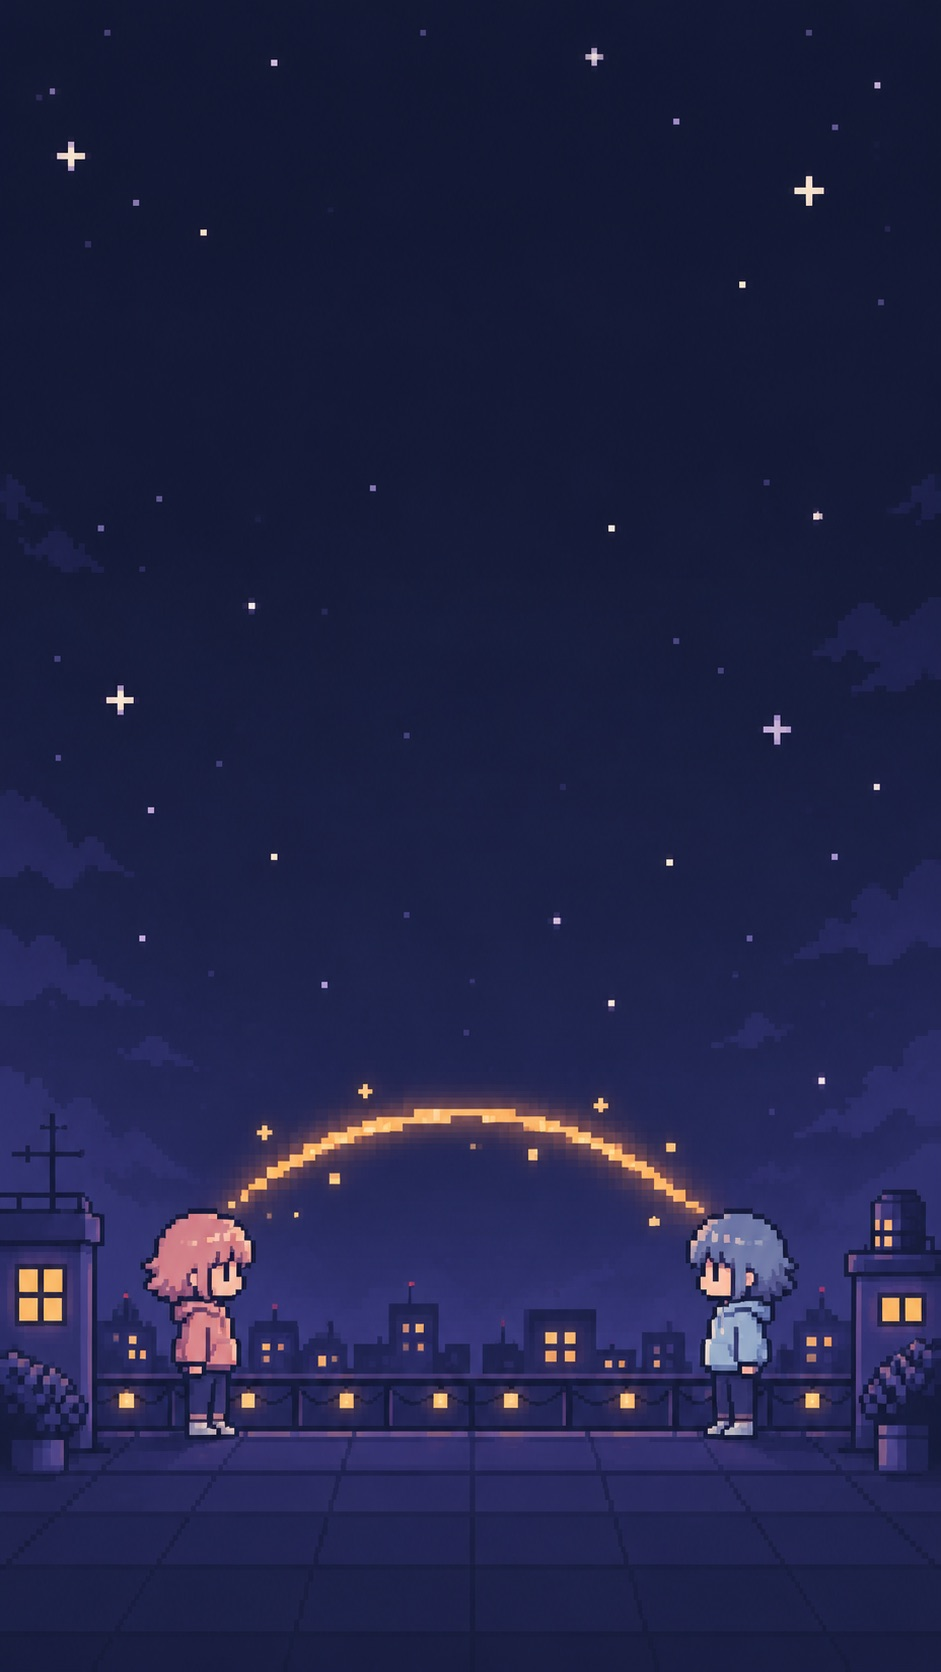
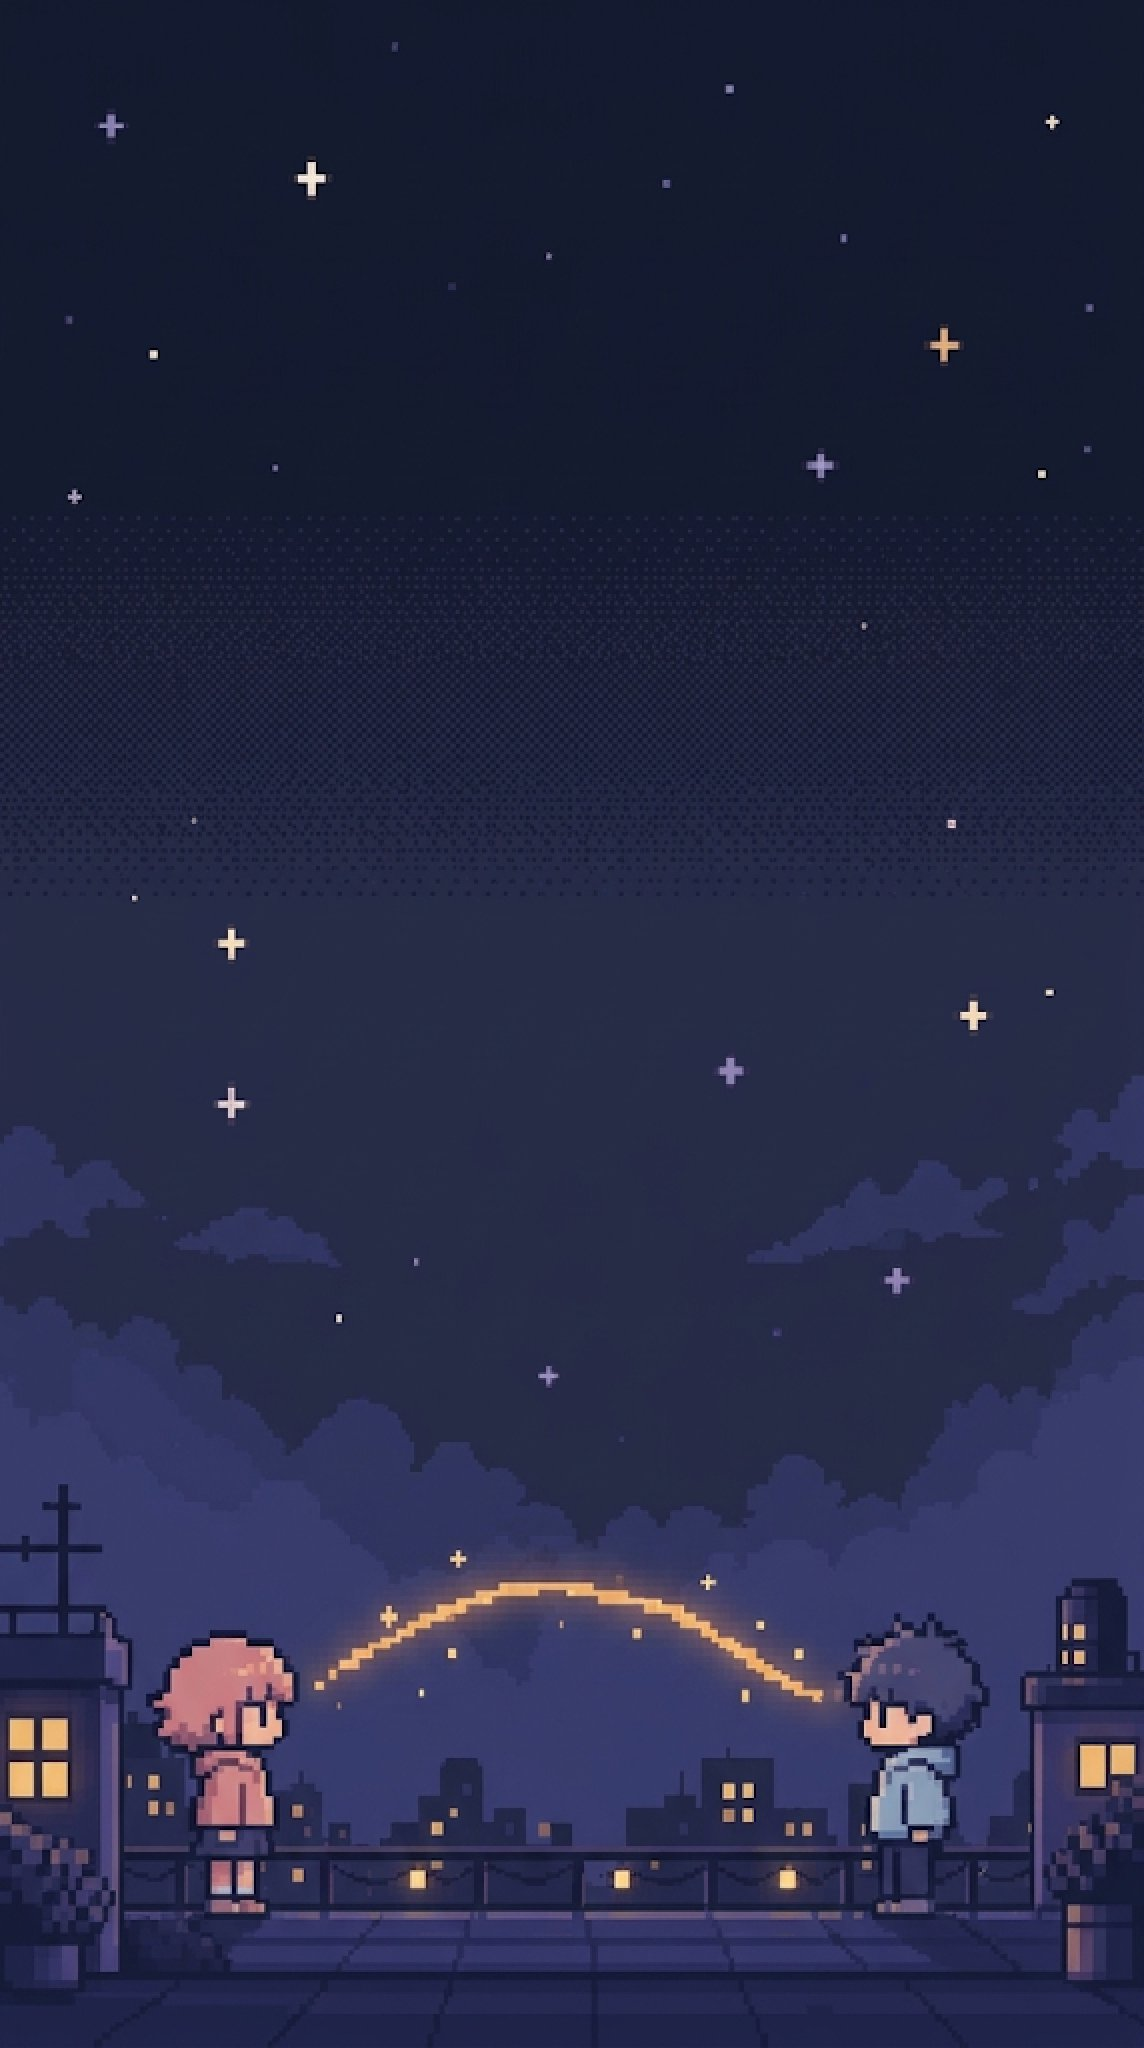
feat(art): v3 portrait cover and ending with the locked character design
- cover-portrait.jpg and ending.jpg replaced (2x nearest-neighbour upscale)
- ending alt text now describes the facing-viewer bench scene
- ending img size attrs 2048x1144; docs/09 rows updated

diff --git a/src/content/th/ui.ts b/src/content/th/ui.ts
@@ -697,7 +697,7 @@ export const ui = {
     compare: 'ดูสิ่งที่เราเข้าใจ',
     report: 'ดูรายงานของฉัน',
     home: 'กลับหน้าแรก',
-    sceneLabel: 'สองคนนั่งข้างกันบนม้านั่งบนดาดฟ้า มองดาวสีชมพูกับดาวสีฟ้าที่เชื่อมกันด้วยเส้นแสง',
+    sceneLabel: 'สองคนนั่งข้างกันบนม้านั่งบนดาดฟ้า ใต้กลุ่มดาวที่เชื่อมดาวสีชมพูกับดาวสีฟ้า',
   },
 
   artPreview: {

diff --git a/src/screens/EndingScreen.tsx b/src/screens/EndingScreen.tsx
@@ -65,8 +65,8 @@ export function EndingScreen() {
         <img
           src="./brand/ending.jpg"
           alt={ui.ending.sceneLabel}
-          width={1024}
-          height={572}
+          width={2048}
+          height={1144}
           className="h-auto max-h-[50vh] w-full max-w-5xl object-cover"
         />
       </div>

diff --git a/docs/09-asset-specification.md b/docs/09-asset-specification.md
@@ -170,11 +170,11 @@ Self-host ใน `public/fonts/` · `font-display: swap` · ระบุ License
 | PWA icons | 192, 512 | PNG ✅ (มีไฟล์แล้ว · manifest ยังไม่ทำ — PWA อยู่ใน Backlog) | P2 |
 | og-image | 1200×628 | JPEG `public/brand/og.jpg` ✅ (ภาพหน้าปก ไม่มีข้อมูลผู้เล่น) | P2 |
 | cover | 1734×907 | JPEG `public/brand/cover.jpg` — พื้นหลัง S1 บนจอกว้าง (อัตราส่วน ≥ 4:3) | P1 |
-| cover-portrait | 941×1672 | JPEG `public/brand/cover-portrait.jpg` — พื้นหลัง S1 บนจอแนวตั้ง (ส่วนบน 30% ว่างไว้ให้ชื่อเกม ตัวละครอยู่ 35% ล่าง) · ฉาก canvas `bg_title` ไม่ได้ใช้ที่ S1 แล้ว | P1 |
+| cover-portrait | 1144×2048 | JPEG `public/brand/cover-portrait.jpg` (v3 ตัวละครแบบล็อกแล้ว ขยาย 2× แบบ nearest-neighbour) — พื้นหลัง S1 บนจอแนวตั้ง (ส่วนบนว่างไว้ให้ชื่อเกม ตัวละครอยู่ ~12% ล่าง ที่ ~14–25% / 73–84% ของความกว้าง) · ฉาก canvas `bg_title` ไม่ได้ใช้ที่ S1 แล้ว | P1 |
 | mode cards | 512×512 | PNG โปร่งใส `public/brand/mode-solo.png`, `mode-together.png`, `mode-remote.png` (together/remote เป็น v2 ตัวละครตรงกับปก · solo ใช้ภาพแรกตามที่เจ้าของเลือก) — S2 การ์ดโหมด · วางบนกล่อง navy #171C2F เสมอ (เส้นเข้มบางส่วนโปร่งใส) · ตกแต่ง (`alt=""`) | P1 |
 | waiting | 512×512 | PNG โปร่งใส `public/brand/waiting.png` — สองคนนั่งหันหลังให้กัน: S17 ขณะรอไฟล์ปิดผนึกของคู่ (Phase Waiting, docs/06 S7) และ EmptyState ของ S8 (ยังไม่มีข้อให้เทียบ) · กล่อง navy · ตกแต่ง | P1 |
 | handoff | 512×512 | PNG โปร่งใส `public/brand/handoff.png` — S12 Handoff (สองมือส่งโทรศัพท์ แขนเสื้อชมพูซ้าย ฟ้าขวา) แทนไอคอน Lucide · ตกแต่ง (`alt=""`) ไม่มีกรอบ ไม่มีแอนิเมชัน | P1 |
-| ending | 1024×572 | JPEG `public/brand/ending.jpg` — ภาพฉาก S15 (สองคนนั่งบนม้านั่งบนดาดฟ้า ดาวชมพูกับดาวฟ้าเชื่อมกัน) แทนฉาก canvas `bg_rooftop_night` ในหน้าจบ · แสดงกว้างไม่เกิน max-w-5xl เพื่อไม่ให้เบลอ | P1 |
+| ending | 2048×1144 | JPEG `public/brand/ending.jpg` (v3 ขยาย 2× แบบ nearest-neighbour) — ภาพฉาก S15 (สองคนนั่งบนม้านั่งบนดาดฟ้า หันหน้าเข้าหาผู้ชม ใต้กลุ่มดาวที่เชื่อมดาวชมพูกับดาวฟ้า) แทนฉาก canvas `bg_rooftop_night` ในหน้าจบ · แสดงกว้างไม่เกิน max-w-5xl เพื่อไม่ให้เบลอ | P1 |
 | logo | 512×512 | PNG `public/brand/logo-512.png` — S11 และ README | P1 |
 
 ภาพทั้งชุด (โลโก้ ไอคอน หน้าปก) จัดทำโดยเจ้าของโปรเจกต์ (2026-11-23) เป็นไฟล์ PNG/JPEG ไม่ได้วาดด้วยโค้ด — ใช้นอกฉากเกม ฉากและตัวละครในเกมยังวาดด้วย canvas ตาม §1.2
